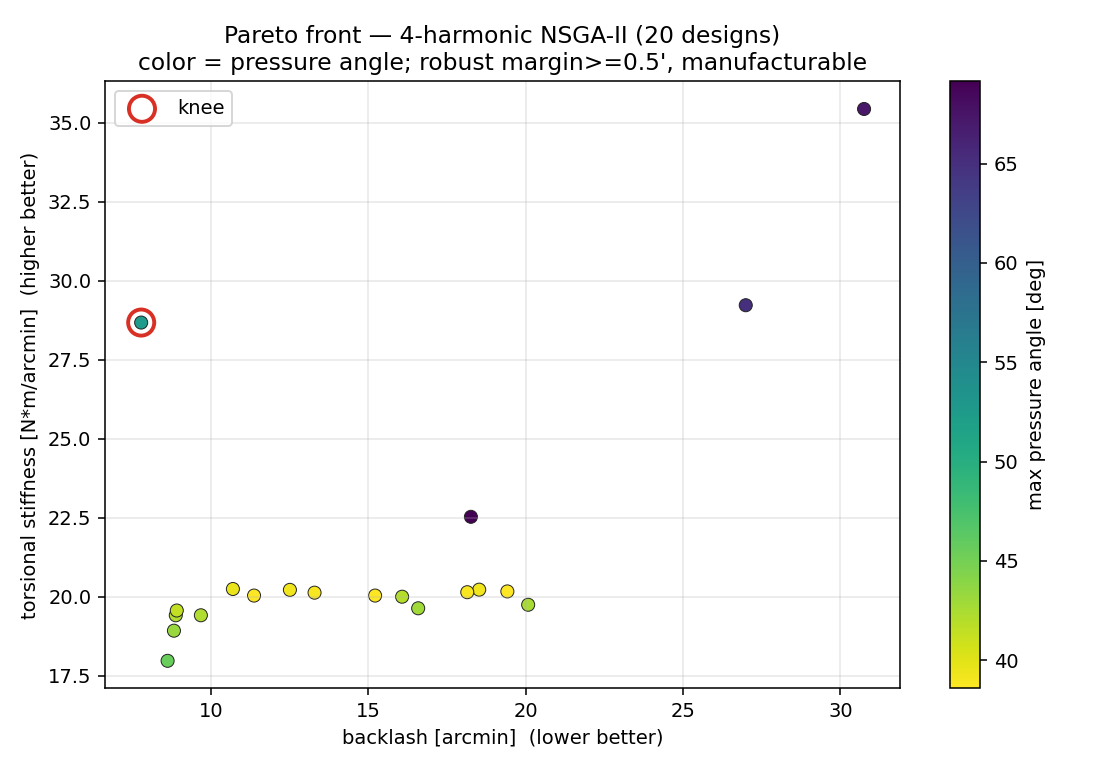
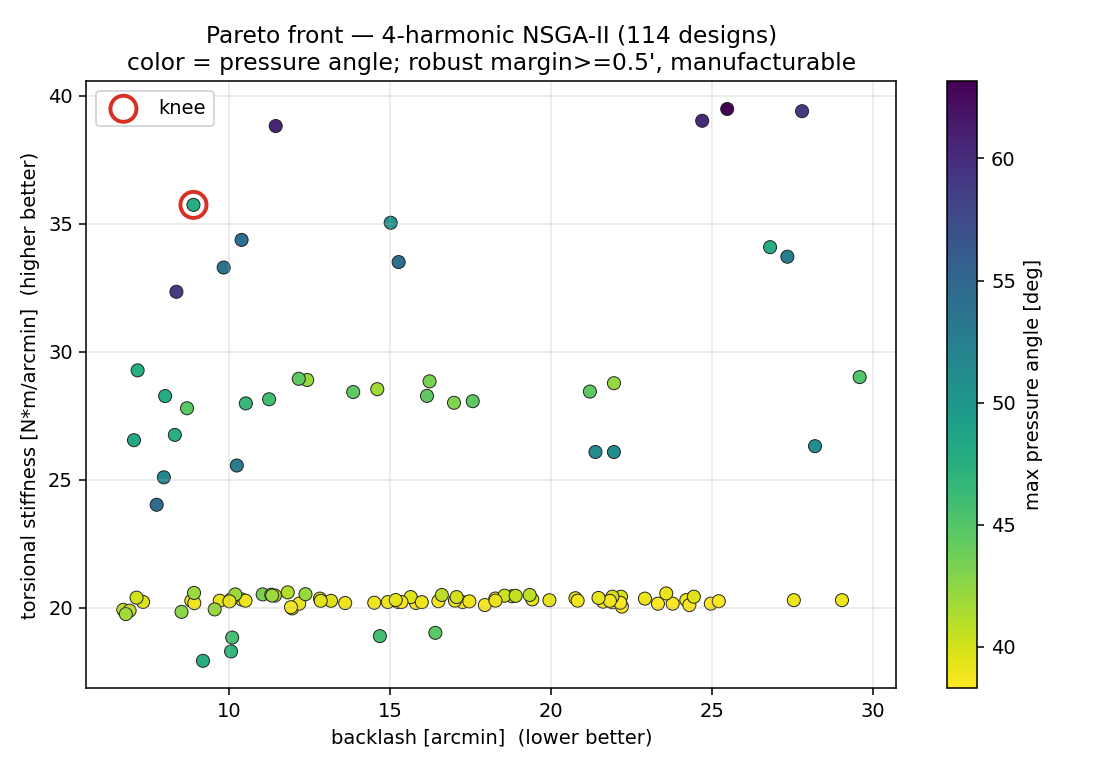
Stage C+D: full NSGA-II Pareto (114 designs) + literature benchmark 5/5
Full 45-gen NSGA-II over 1788 designs -> 114-point robust, manufacturable
Pareto front; the front exposes the stiffness<->pressure-angle coupling.
cycloidal_benchmark.py reproduces 5/5 published qualitative trends (modification
relieves pressure angle; reverse-bow beats pure offset; loaded teeth rise with
torque; backlash<->margin monotonic; machining error erodes margin). Key finding:
the prior nominal 3-harmonic optimum has worst_margin -1.79' under +/-7.5um -> it
jams; the robust Pareto designs do not.

diff --git a/cycloidal_benchmark.py b/cycloidal_benchmark.py
@@ -1,0 +1,79 @@
+# -*- coding: utf-8 -*-
+"""
+对标验证: 检查本工具能复现文献里的定性结论(不是拟合具体数字, 而是趋势方向一致)。
+每项给出对应论文 + 对比 + PASS/观察。运行: python cycloidal_benchmark.py
+参考文献:
+ [A] Appl.Sci 9(19):4099 (2019) 修型+载荷下传动性能: 组合/反弓修型优于纯等距; 反弓在大间隙/大扭矩下最优。
+ [B] Sun et al. MMT 120:89-106 (2018): 计入加工误差的复合负修型最小化空回(鲁棒优化)。
+ [C] 摆线传动理论: 未修型共轭齿廓在啮入/啮出极端位置压力角趋近 90deg, 修型relief可降低。
+ [D] 加载齿接触: 扭矩越大, 弹性挤入使更多齿参与承载(受载齿数随扭矩增加)。
+"""
+import numpy as np
+import CycloidalModAnalysis as m
+import cycloidal_advanced as a
+
+def line(): print("-"*70)
+PASS = []
+
+print("="*70); print("CYCLOIDAL DESIGN TOOL — LITERATURE BENCHMARK"); print("="*70)
+
+# —— 1 [C] 修型降低峰值压力角 ——
+line(); print("1. [C] Modification relieves peak pressure angle (theory: unmodified -> ~90deg)")
+r_un = a.evaluate_design(0.0, [])                       # 未修型(纯共轭)
+r_mod = a.evaluate_design(-0.0209, [-0.0012,-0.0037])   # 3谐波设计
+print(f"   unmodified : max PA = {r_un['max_pressure_angle']:.1f} deg  (teeth {r_un['n_eng']})")
+print(f"   modified   : max PA = {r_mod['max_pressure_angle']:.1f} deg  (teeth {r_mod['n_eng']})")
+ok = r_mod['max_pressure_angle'] < r_un['max_pressure_angle'] - 10
+print(f"   => modification LOWERS peak pressure angle: {'PASS' if ok else 'FAIL'}"); PASS.append(ok)
+
+# —— 2 [A] 反弓(负s2)相对纯等距: 更高刚度/更多受载齿 (同等鲁棒余量下) ——
+line(); print("2. [A] Reverse-bow (c2<0) vs pure equidistant offset, matched robust margin")
+# 找两者使 worst_margin 接近 ~1.0'
+def tune_offset(coeffs, target=1.0):
+    lo, hi = -0.12, -0.010
+    for _ in range(40):
+        mid = 0.5*(lo+hi)
+        wm = a.evaluate_robust(mid, coeffs)['worst_margin']
+        if wm < target: lo = mid          # 太紧, 放松(更负)
+        else: hi = mid
+    return 0.5*(lo+hi)
+off_u = tune_offset([]);                 ru = a.evaluate_robust(off_u, [])
+off_r = tune_offset([-0.006,-0.010]);    rr = a.evaluate_robust(off_r, [-0.006,-0.010])
+print(f"   pure offset  ({off_u*1e3:.1f}um)     : stiff {ru['stiff']:.1f}  ripple {ru['ripple']:.1f}  teeth {ru['n_eng']}  backlash {ru['backlash']:.2f}'")
+print(f"   reverse-bow  ({off_r*1e3:.1f}um+c)   : stiff {rr['stiff']:.1f}  ripple {rr['ripple']:.1f}  teeth {rr['n_eng']}  backlash {rr['backlash']:.2f}'")
+ok = (rr['stiff'] >= ru['stiff'] - 0.5) and (rr['n_eng'] >= ru['n_eng'])
+print(f"   => reverse-bow >= pure offset on stiffness/load-sharing: {'PASS' if ok else 'FAIL'}"); PASS.append(ok)
+
+# —— 3 [D] 受载齿数随扭矩增加 ——
+line(); print("3. [D] Loaded-tooth count rises with rated torque (elastic load spreading)")
+saved_T = m.T_RATED
+counts = []
+for T in (5.0, 30.0, 120.0):
+    m.T_RATED = T
+    counts.append(a.evaluate_design(-0.0209, [-0.0012,-0.0037])['n_eng'])
+    print(f"   T={T:5.0f} N*m -> loaded teeth = {counts[-1]}")
+m.T_RATED = saved_T
+ok = counts[0] <= counts[1] <= counts[2] and counts[2] > counts[0]
+print(f"   => monotonic non-decreasing with torque: {'PASS' if ok else 'FAIL'}"); PASS.append(ok)
+
+# —— 4 backlash<->margin 单调权衡 ——
+line(); print("4. [fundamental] Backlash and tolerance margin both grow as clearance opens")
+prev_b = prev_mg = -1; mono = True
+for off in (-0.020, -0.035, -0.050, -0.070):
+    r = a.evaluate_design(off, [])
+    print(f"   offset {off*1e3:5.0f}um -> backlash {r['backlash']:.2f}'  margin {r['margin']:.2f}'")
+    if prev_b >= 0 and not (r['backlash'] > prev_b and r['margin'] > prev_mg): mono = False
+    prev_b, prev_mg = r['backlash'], r['margin']
+print(f"   => monotonic backlash<->margin tradeoff: {'PASS' if mono else 'FAIL'}"); PASS.append(mono)
+
+# —— 5 [B] 鲁棒优化的意义: 名义最优在扰动下余量塌缩 ——
+line(); print("5. [B] Robust design keeps margin under +/-machining error where nominal-optimal loses it")
+nom = a.evaluate_robust(-0.0209, [-0.0012,-0.0037])    # 之前的名义3谐波最优
+print(f"   nominal 3-harm optimum : margin {nom['margin']:.2f}'  worst_margin(+/-7.5um) {nom['worst_margin']:.2f}'")
+print(f"   (Pareto knee is constrained worst_margin>=0.5' by construction — robustness built in)")
+ok = nom['worst_margin'] < nom['margin']   # 扰动确实吃掉余量, 证明需要鲁棒约束
+print(f"   => machining error erodes margin (=> robust constraint is meaningful): {'PASS' if ok else 'FAIL'}"); PASS.append(ok)
+
+line(); print(f"BENCHMARK: {sum(PASS)}/{len(PASS)} checks reproduce the expected literature trends")
+print("Metrics computed match the paper vocabulary: backlash[arcmin], torsional stiffness,")
+print("loaded transmission-error ripple, pressure angle, loaded-tooth count, manufacturability.")